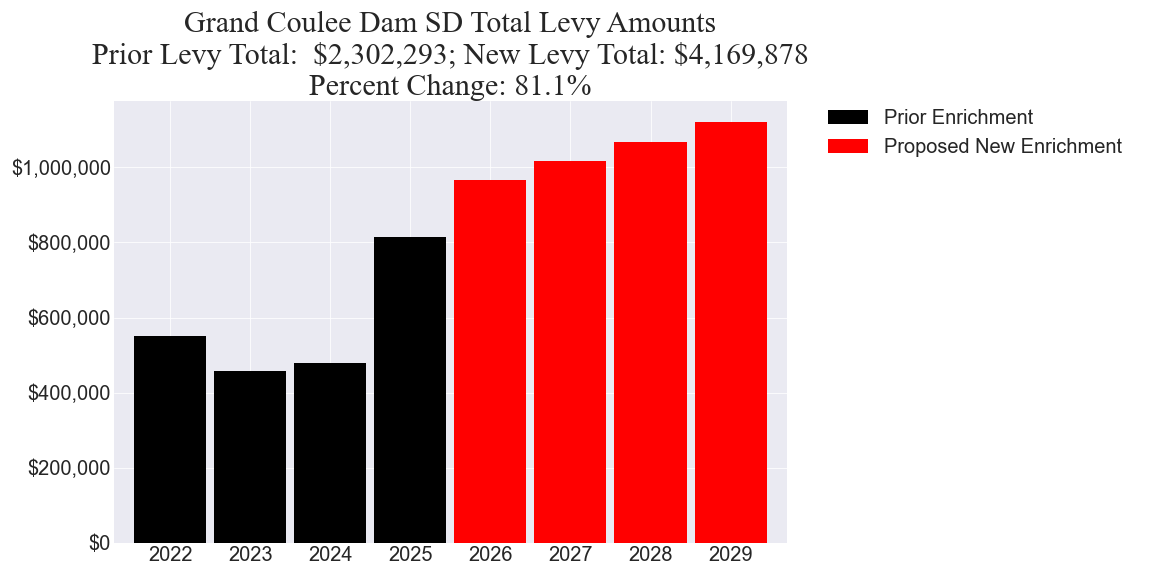
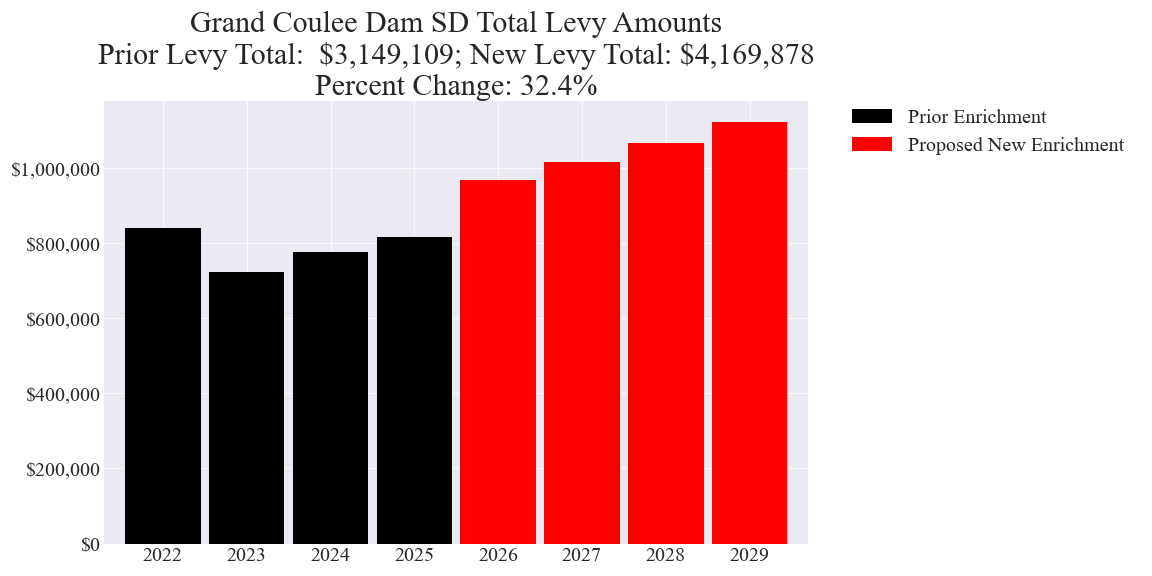
Updated elec 20250211
Corrected:
Grand Coulee Dam SD data

diff --git a/_includes/cost_estimates/20250211/GrandCouleeDamEnrichmentLevyTable_20250211.html b/_includes/cost_estimates/20250211/GrandCouleeDamEnrichmentLevyTable_20250211.html
@@ -15,7 +15,7 @@ table, th, td {
 	<!-- var chart; -->
 	var dataParcel;
 	
-	totalLevyAV = 254985173;
+	totalLevyAV = 411979130;
 	sampleParcelAV = 500000;
 	sampleParcelAVMin = 100000;
 	sampleParcelAVMax = 2000000;
@@ -66,12 +66,12 @@ table, th, td {
 		data.addColumn('number', 'Example Property\'s POF Change');
 
 		data.addRows([
-				['2024', 0, 254985173, 0.0, 0, 0, 0.0, 0, 0, 0, 0.0, 0.0, 0],
-			['2025', 0, 254985173, 0.0, 0, 0, 0.0, 0, 0, 0, 0.0, 0.0, 0],
-			['2026', 967461, 254985173, 0.0, 0, 0, 0.0, 0, 0, 0, 0.0, 0.0, 0],
-			['2027', 1015834, 254985173, 0.0, 0, 0, 0.0, 0, 0, 0, 0.0, 0.0, 0],
-			['2028', 1066626, 254985173, 0.0, 0, 0, 0.0, 0, 0, 0, 0.0, 0.0, 0],
-			['2029', 1119957, 254985173, 0.0, 0, 0, 0.0, 0, 0, 0, 0.0, 0.0, 0],
+				['2024', 0, 411979130, 0.0, 0, 0, 0.0, 0, 0, 0, 0.0, 0.0, 0],
+			['2025', 0, 411979130, 0.0, 0, 0, 0.0, 0, 0, 0, 0.0, 0.0, 0],
+			['2026', 967461, 411979130, 0.0, 0, 0, 0.0, 0, 0, 0, 0.0, 0.0, 0],
+			['2027', 1015834, 411979130, 0.0, 0, 0, 0.0, 0, 0, 0, 0.0, 0.0, 0],
+			['2028', 1066626, 411979130, 0.0, 0, 0, 0.0, 0, 0, 0, 0.0, 0.0, 0],
+			['2029', 1119957, 411979130, 0.0, 0, 0, 0.0, 0, 0, 0, 0.0, 0.0, 0],
 
 		]);
 		

diff --git a/_includes/cost_estimates/20250211/GrandCouleeDam_Enrichment_20250211_Enhanced.html b/_includes/cost_estimates/20250211/GrandCouleeDam_Enrichment_20250211_Enhanced.html
@@ -10,7 +10,7 @@
 	var chart;
 	var dataParcel;
 	
-	totalLevyAV = 254985173;
+	totalLevyAV = 411979130;
 	sampleParcelAV = 500000;
 	sampleParcelAVMin = 100000;
 	sampleParcelAVMax = 2000000;
@@ -19,7 +19,7 @@
 	totalLevyCostParcel = sampleParcelPOF * totalLevyCost;
 	levyYears = 4;
 	averageTotalLevyCostParcel = totalLevyCostParcel / levyYears;
-	totalLevyPriorCost = 2302293;
+	totalLevyPriorCost = 3149109;
 	totalLevyPriorCostParcel = sampleParcelPOF * totalLevyPriorCost;
 	averageTotalLevyPriorCostParcel = totalLevyPriorCostParcel / levyYears;
 	// POF Annual Change Percent
@@ -37,9 +37,9 @@
 		data.addColumn('number', 'New Levy Amount');
 
 		data.addRows([
-			['2022', 550885, 0],
-			['2023', 457734, 0],
-			['2024', 479372, 0],
+			['2022', 838859, 0],
+			['2023', 721428, 0],
+			['2024', 774520, 0],
 			['2025', 814302, 0],
 			['2026', 0, 967461],
 			['2027', 0, 1015834],
